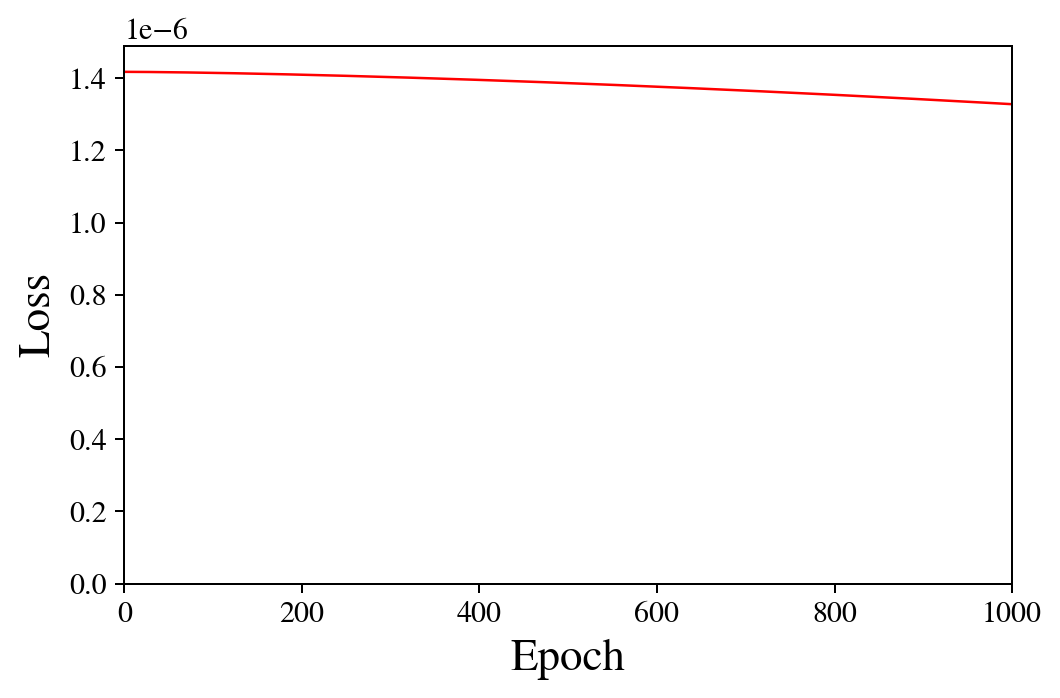
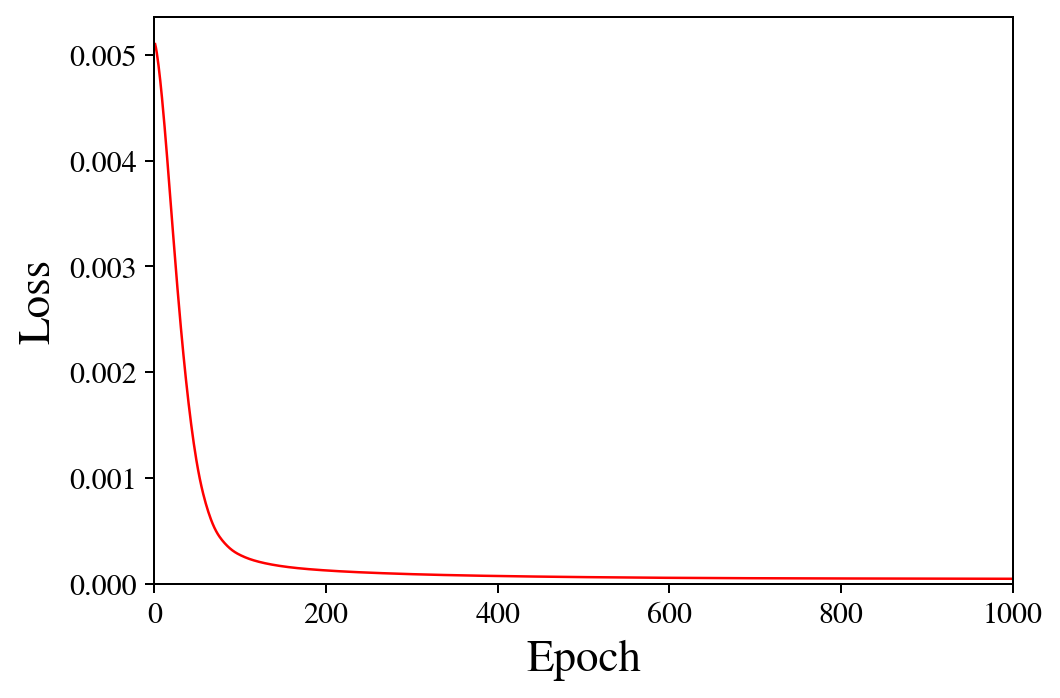
Fix DNN training loss and regenerate outputs

diff --git a/python/scripts/train_dnn.py b/python/scripts/train_dnn.py
@@ -98,13 +98,10 @@ def make_transfer_function(shape: tuple[int, int], dx: float, wavelength: float,
 
 
 def propagate_with_phase(phi: tf.Tensor, transfer: tf.Tensor) -> tf.Tensor:
-    phase_wrapped = tf.math.floormod(phi, 2.0 * np.pi)
-    field_in = tf.complex(tf.math.cos(phase_wrapped), tf.math.sin(phase_wrapped))
+    field_in = tf.complex(tf.math.cos(phi), tf.math.sin(phi))
     field_in = tf.cast(field_in, tf.complex64)
     field_out = tf.signal.ifft2d(tf.signal.fft2d(field_in) * transfer)
-    intensity = tf.math.abs(field_out) ** 2
-    intensity = intensity / (tf.reduce_max(intensity) + 1e-8)
-    return intensity
+    return tf.math.abs(field_out) ** 2
 
 
 
@@ -249,11 +246,12 @@ def parse_args() -> argparse.Namespace:
 
 def compute_loss(intensity: tf.Tensor, target: tf.Tensor, loss_type: str) -> tf.Tensor:
     if loss_type == "mse":
-        return tf.reduce_mean((intensity - target) ** 2)
+        intensity_norm = intensity / (tf.reduce_max(intensity) + 1e-8)
+        return tf.reduce_mean((intensity_norm - target) ** 2)
 
     target_energy = target / (tf.reduce_sum(target) + 1e-8)
     output_energy = intensity / (tf.reduce_sum(intensity) + 1e-8)
-    return tf.reduce_mean((output_energy - target_energy) ** 2)
+    return tf.reduce_sum((output_energy - target_energy) ** 2)
 
 
 
